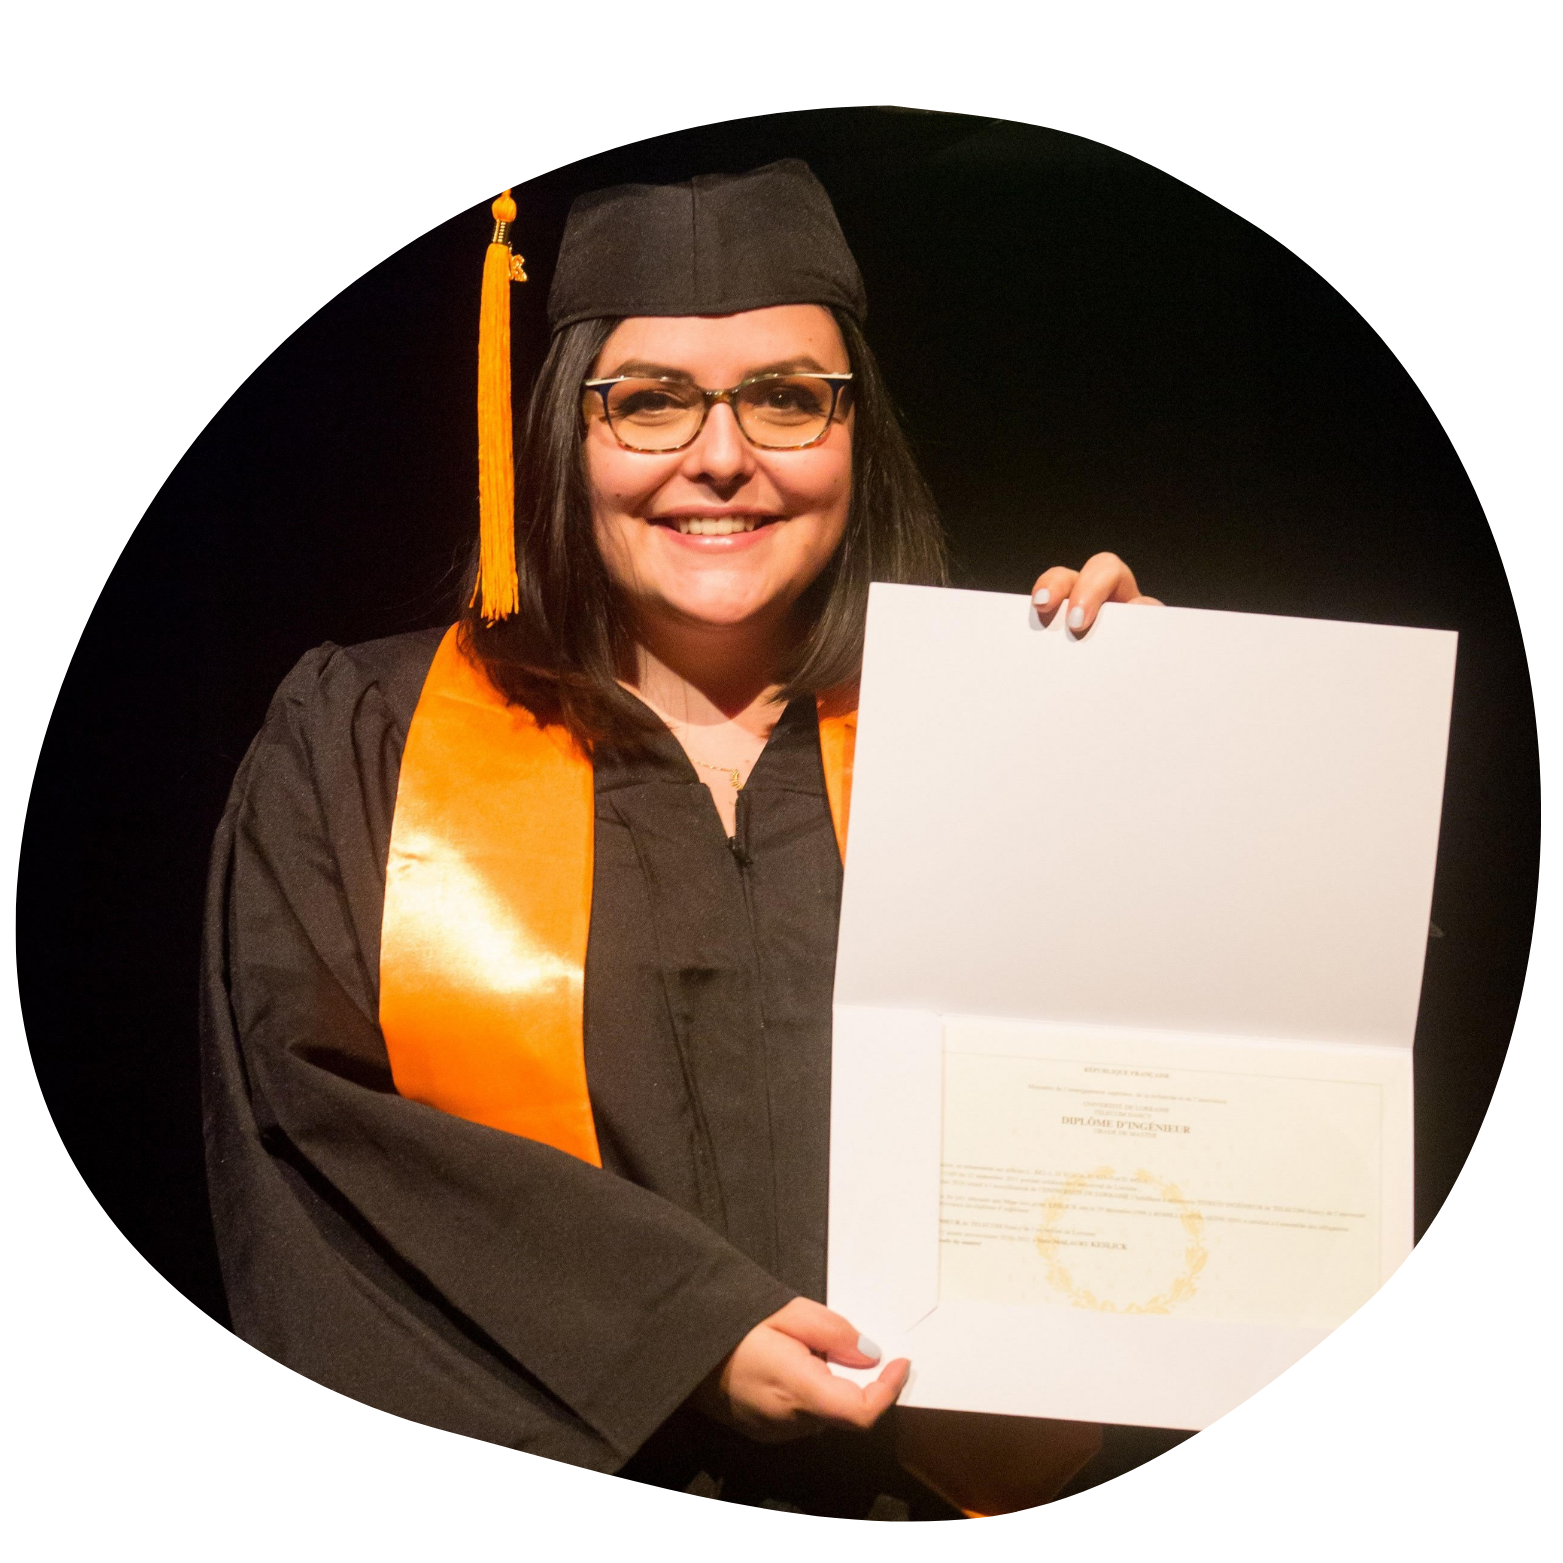
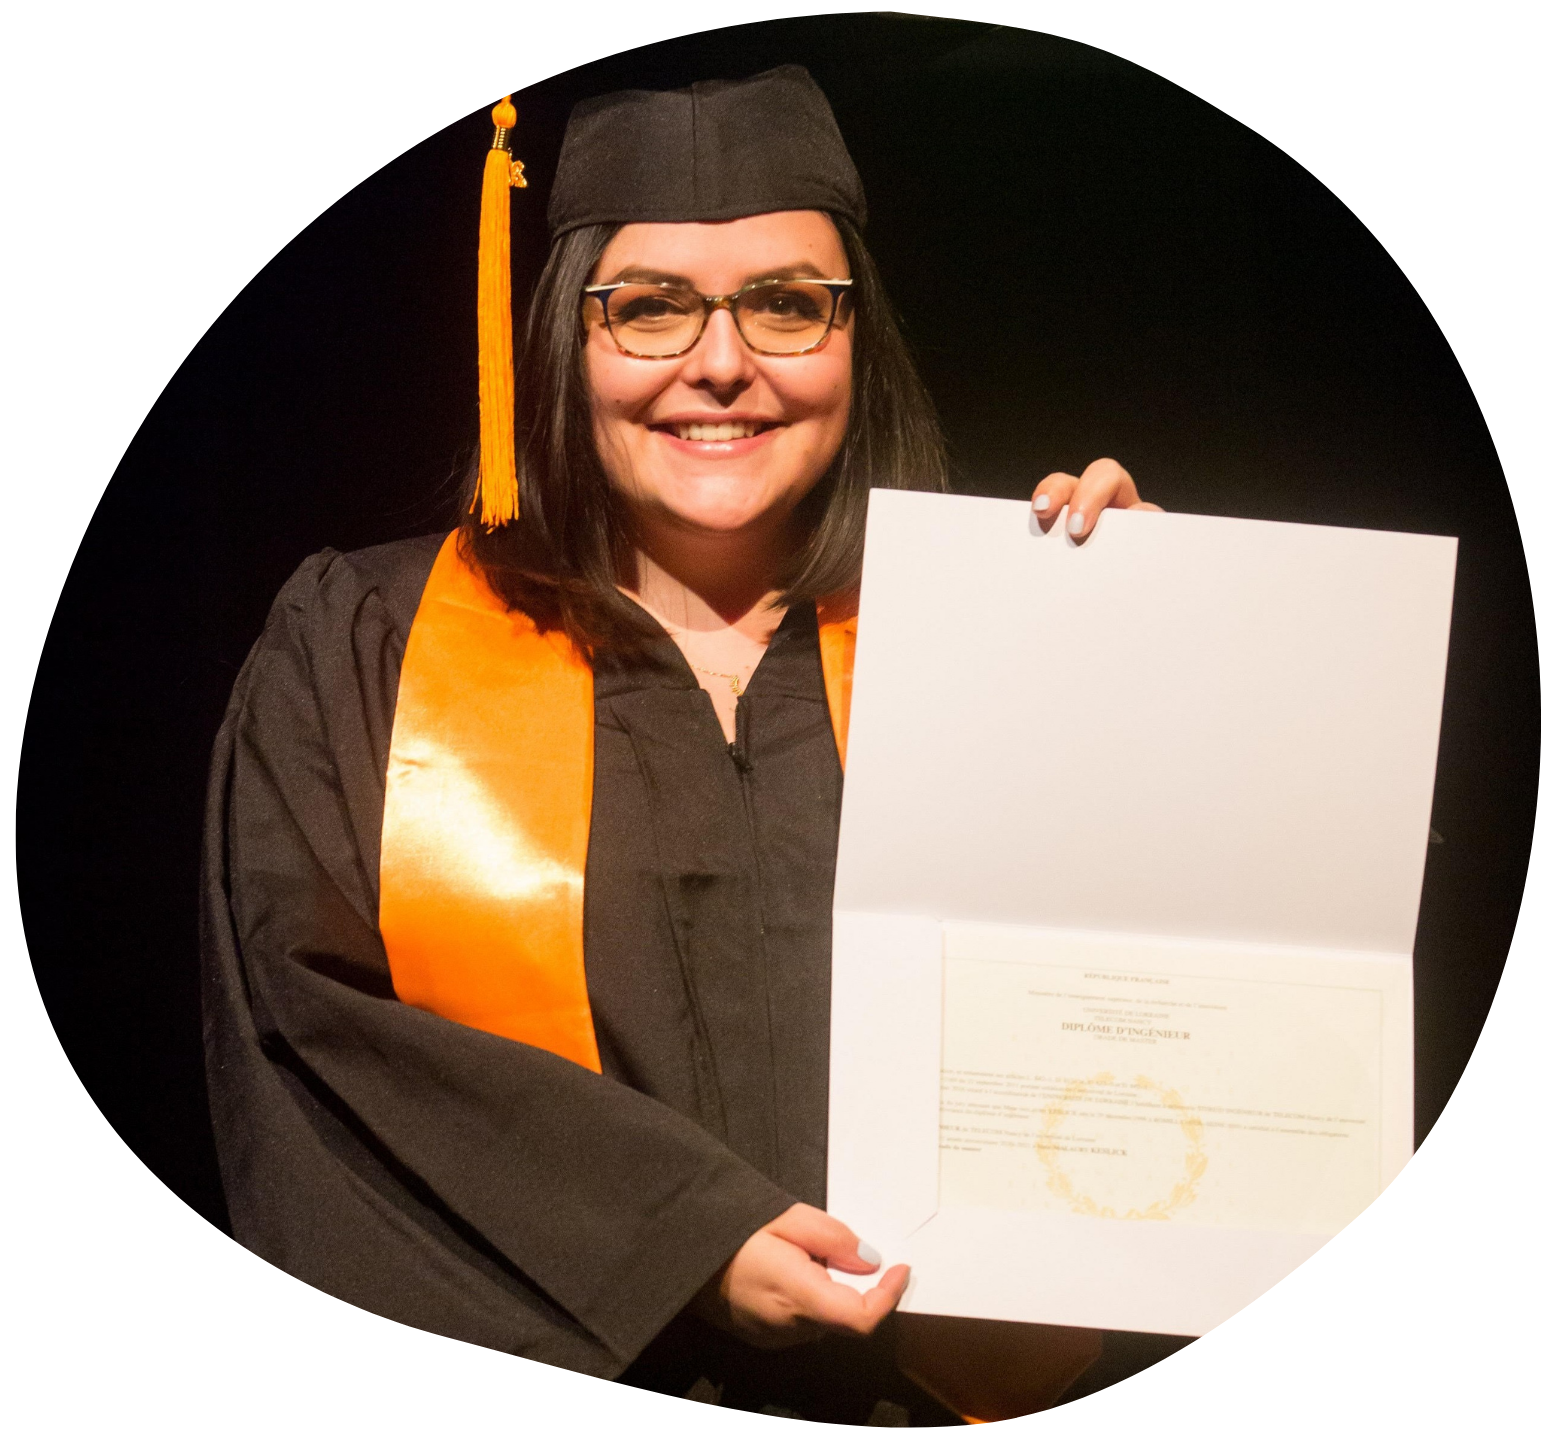
[WIP] responsiveness About page

diff --git a/frontend/src/views/about/About.jsx b/frontend/src/views/about/About.jsx
@@ -11,6 +11,7 @@ import leftOrnament from "../../assets/left_ornament_about.png";
 import rightOrnament from "../../assets/right_ornament_about.png";
 import { FormattedMessage } from "react-intl";
 import { useAppContext } from "../App";
+import PictureViewer from "../components/PictureViewer";
 
 export const About = () => {
   const { locale } = useAppContext();
@@ -28,30 +29,30 @@ export const About = () => {
         </div>
         <div className={"globalPresentation"}>
           <div className={"text"}>
-            <Typography variant={"body1"} fontSize={22} align={"justify"}>
+            <Typography variant={"about"} align={"justify"}>
               <FormattedMessage id={"about.personalPresentation_1"} defaultMessage={"Hey there! I am Malaury - a 26-year-old full-stack web developer from France, now happily living in Buchs, in the canton of St. Gallen, Switzerland. I moved here to join my partner and to finally enjoy a life surrounded by the things I love: fresh air, mountains, lakes, and a slower pace that lets me breathe and create freely."}/>
             </Typography>
-            <Typography variant={"body1"} fontSize={22} align={"justify"}>
+            <Typography variant={"about"} align={"justify"}>
               <FormattedMessage id={"about.personalPresentation_2"} defaultMessage={"When I’m not deep into code, you’ll probably find me singing, learning to play the piano, drawing or enjoying a cozy video game session. I’ve always been driven by curiosity and a deep need to understand how things work - which is probably why I fell for computer science in the first place. I love building things that are useful, clear, and that help people save time, not waste it."}/>
             </Typography>
           </div>
-          <img src={meInBuchs} className={"picture"} width={"30%"} alt={<FormattedMessage id={"about.personalPresentation_portrait_alt"} defaultMessage={"Myself in front of the Werdenbergsee and castle, located in Buchs SG, Switzerland"}/>}/>
+          <PictureViewer src={meInBuchs} className={"picture"} width={"30%"} alt={<FormattedMessage id={"about.personalPresentation_portrait_alt"} defaultMessage={"Myself in front of the Werdenbergsee and castle, located in Buchs SG, Switzerland"}/>}/>
         </div>
         <div className={"divider"}/>
         <div className={"backgroundPresentation"}>
-          <img src={diploma} width={"30%"} className={"picture"} alt={<FormattedMessage id={"about.backgroundPresentation_portrait_alt"} defaultMessage={"Myself with my graduation gown and diploma at my graduation ceremony"}/>}/>
+          <PictureViewer src={diploma} width={"30%"} className={"picture"} alt={<FormattedMessage id={"about.backgroundPresentation_portrait_alt"} defaultMessage={"Myself with my graduation gown and diploma at my graduation ceremony"}/>}/>
           <div className={"text"}>
-            <Typography variant={"body1"} fontSize={21} align={"justify"}>
+            <Typography variant={"about"} align={"justify"}>
               <FormattedMessage id={"about.backgroundPresentation_1"} defaultMessage={"I have always liked figuring things out - whether it was puzzles, math problems, or tricky bugs in my code. That curiosity naturally led me to study software engineering at Telecom Nancy - a french engineering school from the Mines-Telecom institute. It is a generalist program that gave me strong fundamentals in everything from algorithms to system architecture, and the flexibility to explore all areas of development and switch from one language to another."}/>
             </Typography>
-            <Typography variant={"body1"} fontSize={21} align={"justify"}>
+            <Typography variant={"about"} align={"justify"}>
               <FormattedMessage id={"about.backgroundPresentation_2"} defaultMessage={"Since 2021, I have been working as a full-stack developer (mostly with the MERN stack - MongoDB, Express.js, React.js, Node.js), building AI-based chatbots, large-scale web platforms, and user-friendly interfaces. What I’m looking for now is a team and a project I can really get behind - something useful, meaningful, ideally with an environmental or social dimension. And of course, somewhere I can keep learning and growing while settling into this new Swiss life I’m building."}/>
             </Typography>
           </div>
         </div>
         <div className={"divider"}/>
         <div className={"resumeIntegration"} >
-          <Typography variant={"body1"} fontSize={21} align={"center"}>
+          <Typography variant={"about"} align={"center"}>
             <FormattedMessage id={"about.resumeIntroduction_1"} defaultMessage={"If you'd like to know more about my background or specific skills, feel free to take a look at my CV below. And if you have any questions or just want to chat, don't hesitate to "}/>
             <a href={"/contact"} className={'link'}><FormattedMessage id={"about.resumeIntroduction_link"} defaultMessage={"get in touch"}/></a>
             <FormattedMessage id={"about.resumeIntroduction_2"} defaultMessage={" - I am always happy to connect!"}/>
@@ -64,7 +65,7 @@ export const About = () => {
               <FormattedMessage id={"about.downloadResume"} defaultMessage={"Download"}/>
             </Button>
           </div>
-          <img src={resume} width={"60%"} className={"resume"} alt={<FormattedMessage id={"about.resume_alt"} defaultMessage={"Resume"}/>}/>
+          <PictureViewer src={resume} width={"60%"} className={"resume"} alt={<FormattedMessage id={"about.resume_alt"} defaultMessage={"Resume"}/>}/>
           <div className={"endingSpace"}/>
         </div>
       </div>

diff --git a/frontend/src/views/about/styles.css b/frontend/src/views/about/styles.css
@@ -1,3 +1,132 @@
+@media only screen and (max-width: 499px) {
+    .about .buttons{
+        flex-direction: column;
+    }
+}
+
+@media only screen and (min-width: 500px) {
+    .about .buttons{
+        flex-direction: row;
+    }
+}
+
+@media only screen and (max-width: 649px) {
+    .about .picture{
+        width: 80%;
+    }
+}
+
+@media only screen and (min-width: 650px) and (max-width: 1499px){
+    .about .picture{
+        width: 50%;
+    }
+}
+
+@media only screen and (max-width: 1199px) {
+    .about .titleAndOrnaments{
+        justify-content: center;
+        margin-bottom: 25px;
+    }
+
+    .about .titleAndOrnaments .ornament{
+        display: none;
+    }
+
+    .about .buttons{
+        gap: 50px;
+    }
+}
+
+@media only screen and (min-width: 1200px) {
+    .about .titleAndOrnaments{
+        align-items: flex-start;
+        justify-content: space-between;
+    }
+
+    .about .buttons{
+        gap: 200px;
+    }
+}
+
+@media only screen and (max-width: 1499px) {
+    .about .globalPresentation{
+        flex-direction: column;
+        justify-content: center;
+    }
+
+    .about .globalPresentation .text{
+        flex: 1;
+        order: 2;
+        max-width: 80%;
+        margin: 50px 0;
+    }
+
+    .about .globalPresentation .picture{
+        flex: 1;
+        order: 1;
+    }
+
+    .about .backgroundPresentation{
+        flex-direction: column;
+        justify-content: center;
+    }
+
+    .about .backgroundPresentation .text{
+        flex: 1;
+        order: 1;
+        max-width: 80%;
+    }
+
+    .about .backgroundPresentation .picture{
+        flex: 1;
+        order: 2;
+        margin: 50px 0;
+    }
+
+    .about .resumeIntegration .MuiTypography-root{
+        margin: 0 10%;
+    }
+}
+
+@media only screen and (min-width: 1500px) {
+    .about .globalPresentation{
+        flex-direction: row;
+        justify-content: space-between;
+        gap: 10%;
+        margin-bottom: 50px;
+    }
+
+    .about .globalPresentation .text{
+        max-width: 50%;
+        margin-left: 10%;
+    }
+
+    .about .globalPresentation .picture{
+        margin-right: 10%;
+    }
+
+    .about .backgroundPresentation{
+        flex-direction: row;
+        justify-content: space-between;
+        gap: 10%;
+        margin-bottom: 50px;
+    }
+
+    .about .backgroundPresentation .text{
+        max-width: 50%;
+        margin-right: 10%;
+    }
+
+    .about .backgroundPresentation .picture{
+        margin-left: 10%;
+    }
+
+    .about .resumeIntegration .MuiTypography-root{
+        margin: 0 20%;
+    }
+}
+
+
 .about{
     width: 100%;
     height: 100%;
@@ -6,7 +135,6 @@
     align-items: center;
     align-content: center;
     overflow: auto;
-    scrollbar-width: thin;
 }
 
 .about .titleAndOrnaments{
@@ -14,9 +142,6 @@
     height: 100%;
     display: flex;
     flex-direction: row;
-    align-items: flex-start;
-    align-content: flex-start;
-    justify-content: space-between;
 }
 
 .about .titleAndOrnaments .ornament{
@@ -25,16 +150,14 @@
 
 .about .divider{
     min-height: 5px;
-    width: 50%;
+    width: 60%;
     background-color: var(--color-secondary);
     opacity: 50%;
-    margin: 75px 0;
+    margin-bottom: 50px;
 }
 
 .about .buttons{
     display: flex;
-    flex-direction: row;
-    gap: 200px;
     margin: 50px 0;
 }
 
@@ -53,49 +176,34 @@
     color: var(--color-text);
     align-items: center;
     align-content: center;
+    text-align: center;
     margin: 25px 0;
 }
 
 .about .globalPresentation{
     width: 100%;
-    height: 100%;
     display: flex;
-    flex-direction: row;
     align-items: center;
     align-content: center;
-    justify-content: space-between;
-    gap: 10%;
 }
 
 .about .globalPresentation .text{
-    max-width: 50%;
-    margin-left: 10%;
     color: var(--color-text);
     display: flex;
     flex-direction: column;
     align-items: center;
     align-content: center;
     gap: 10px;
-}
-
-.about .globalPresentation .picture{
-    margin-right: 10%;
 }
 
 .about .backgroundPresentation{
     width: 100%;
-    height: 100%;
     display: flex;
-    flex-direction: row;
     align-items: center;
     align-content: center;
-    justify-content: space-between;
-    gap: 10%;
 }
 
 .about .backgroundPresentation .text{
-    max-width: 50%;
-    margin-right: 10%;
     color: var(--color-text);
     display: flex;
     flex-direction: column;
@@ -104,8 +212,8 @@
     gap: 10px;
 }
 
-.about .backgroundPresentation .picture{
-    margin-left: 10%;
+.about .picture{
+    cursor: zoom-in;
 }
 
 .about .resumeIntegration{
@@ -119,12 +227,12 @@
 }
 
 .about .resumeIntegration .MuiTypography-root{
-    margin: 0 20%;
     color: var(--color-text);
 }
 
 .about .resumeIntegration .resume{
     border: var(--color-secondary) solid 2px;
+    cursor: zoom-in;
 }
 
 .about .endingSpace{

diff --git a/frontend/src/views/components/PictureViewer.jsx b/frontend/src/views/components/PictureViewer.jsx
@@ -1,0 +1,39 @@
+import React from "react";
+import { useState } from 'react';
+import { Dialog, DialogContent } from '@mui/material';
+
+export default function PictureViewer({ src, alt = '', className, width }) {
+  const [open, setOpen] = useState(false);
+
+  return (
+    <>
+      <img
+        src={src}
+        alt={alt}
+        className={className}
+        width={width}
+        onClick={() => setOpen(true)}
+      />
+      <Dialog
+        open={open}
+        onClose={() => setOpen(false)}
+        maxWidth={false}
+        PaperProps={{
+          style: {
+            backgroundColor: 'rgba(0,0,0,0)',
+            boxShadow: 'none',
+          },
+        }}
+      >
+        <DialogContent sx={{ p: 0, display: 'flex', justifyContent: 'center' }}>
+          <img
+            src={src}
+            alt={alt}
+            style={{ maxWidth: '80vw', maxHeight: '90vh', cursor: 'zoom-out', objectFit: "contain"}}
+            onClick={() => setOpen(false)}
+          />
+        </DialogContent>
+      </Dialog>
+    </>
+  );
+}

diff --git a/frontend/src/views/App.js b/frontend/src/views/App.js
@@ -117,7 +117,12 @@ const appTheme = createTheme({
       },
     },
     body1: {
-      fontFamily: 'Mina'
+      fontFamily: 'Mina',
+    },
+    about: {
+      '@media (min-width:850px)': {
+        fontSize: '1.5rem',
+      },
     },
     h3: {
       fontFamily: 'Mina',
@@ -151,6 +156,20 @@ const appTheme = createTheme({
         fontSize: '1rem',
       },
     }
+  },
+  components: {
+    MuiTypography: {
+      variants: [
+        {
+          props: { variant: 'about' },
+          style: {
+            fontFamily: 'Mina',
+            fontSize: '1rem',
+            lineHeight: 1.5,
+          },
+        },
+      ],
+    },
   },
 });
 

diff --git a/frontend/src/views/contact/styles.css b/frontend/src/views/contact/styles.css
@@ -1,4 +1,3 @@
-/* Small devices such as large phones (640px and up) */
 @media only screen and (max-width: 1024px) {
     .contact .mailPanel {
         width: 50%;
@@ -24,7 +23,6 @@
     }
 }
 
-/* Large devices such as laptops (1024px and up) */
 @media only screen and (min-width: 750px) {
     .contact .mailPanel {
         width: 80%;
